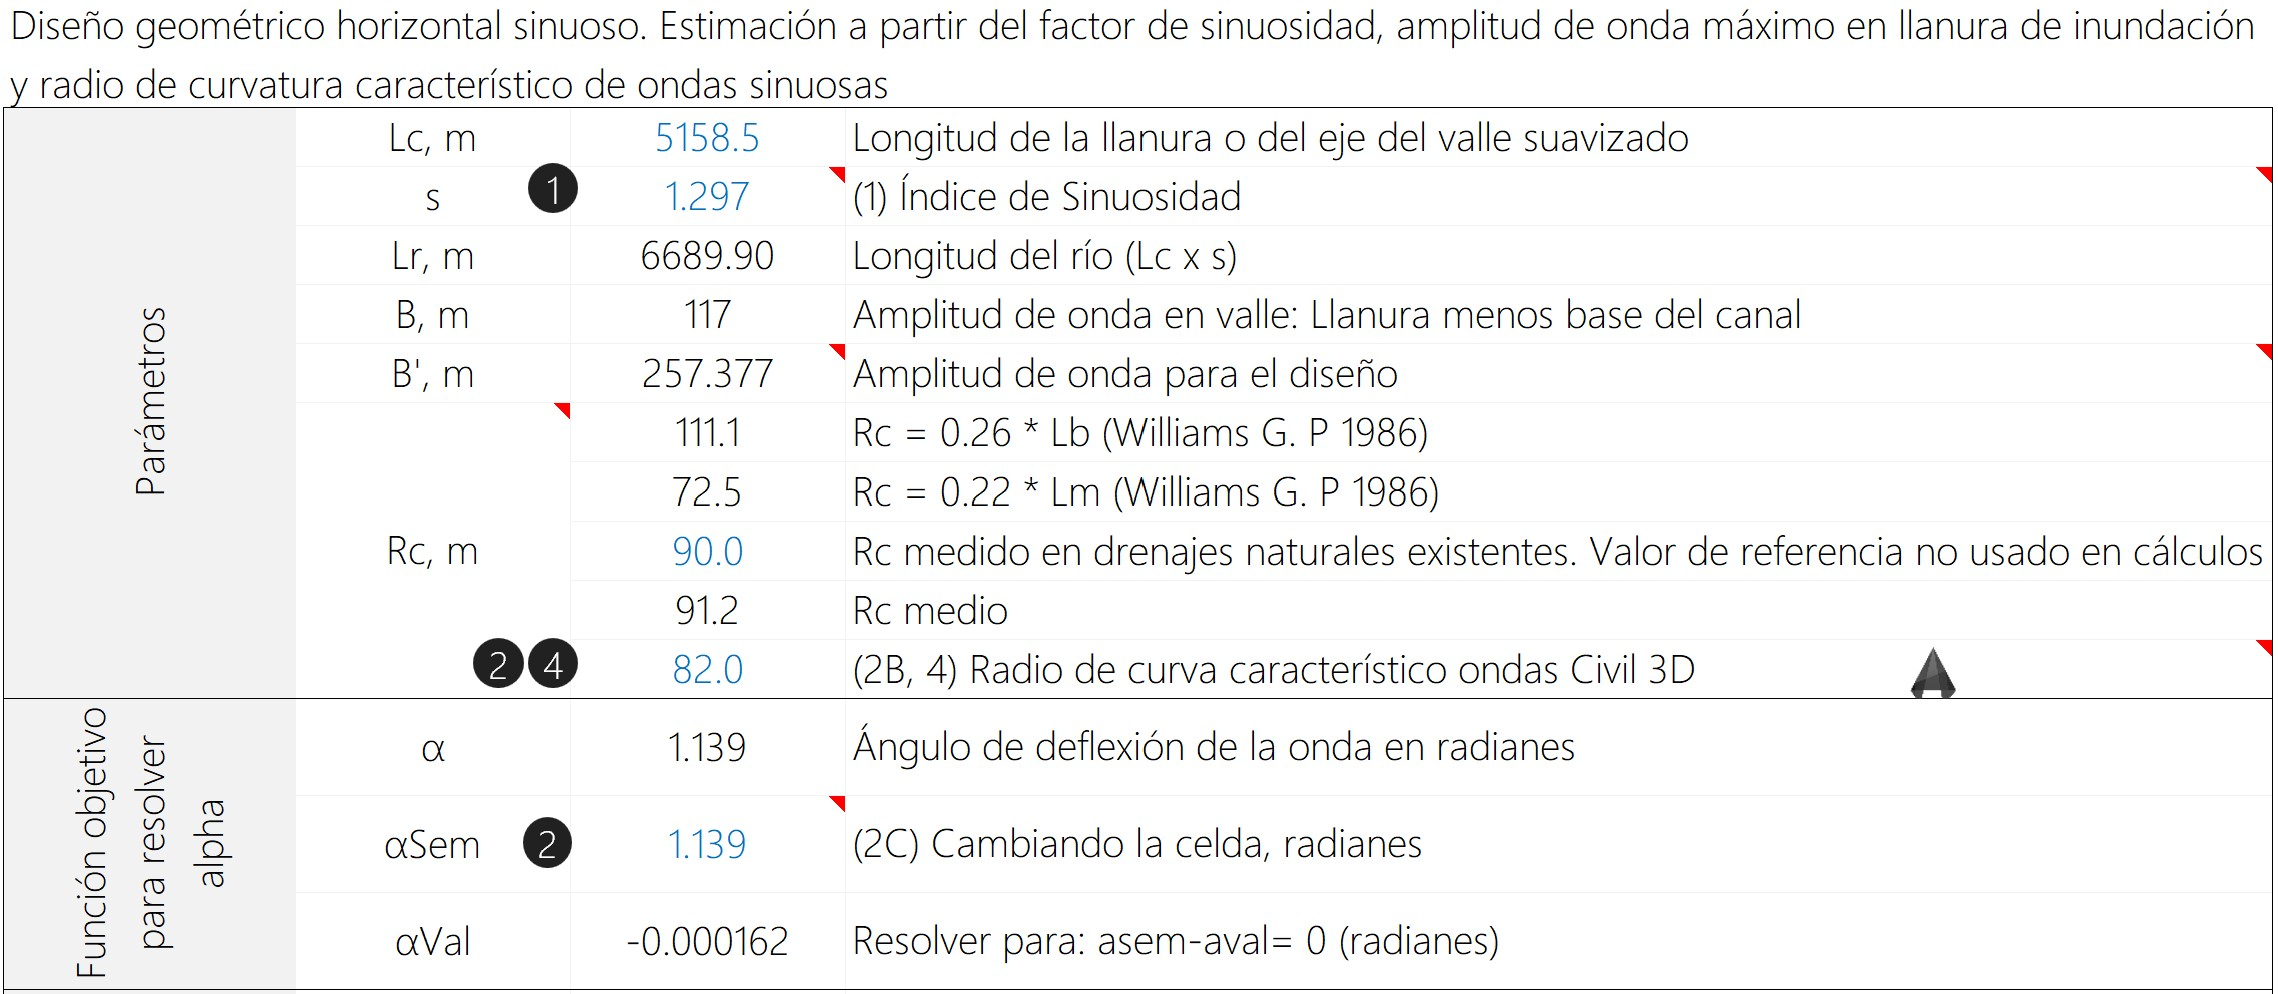
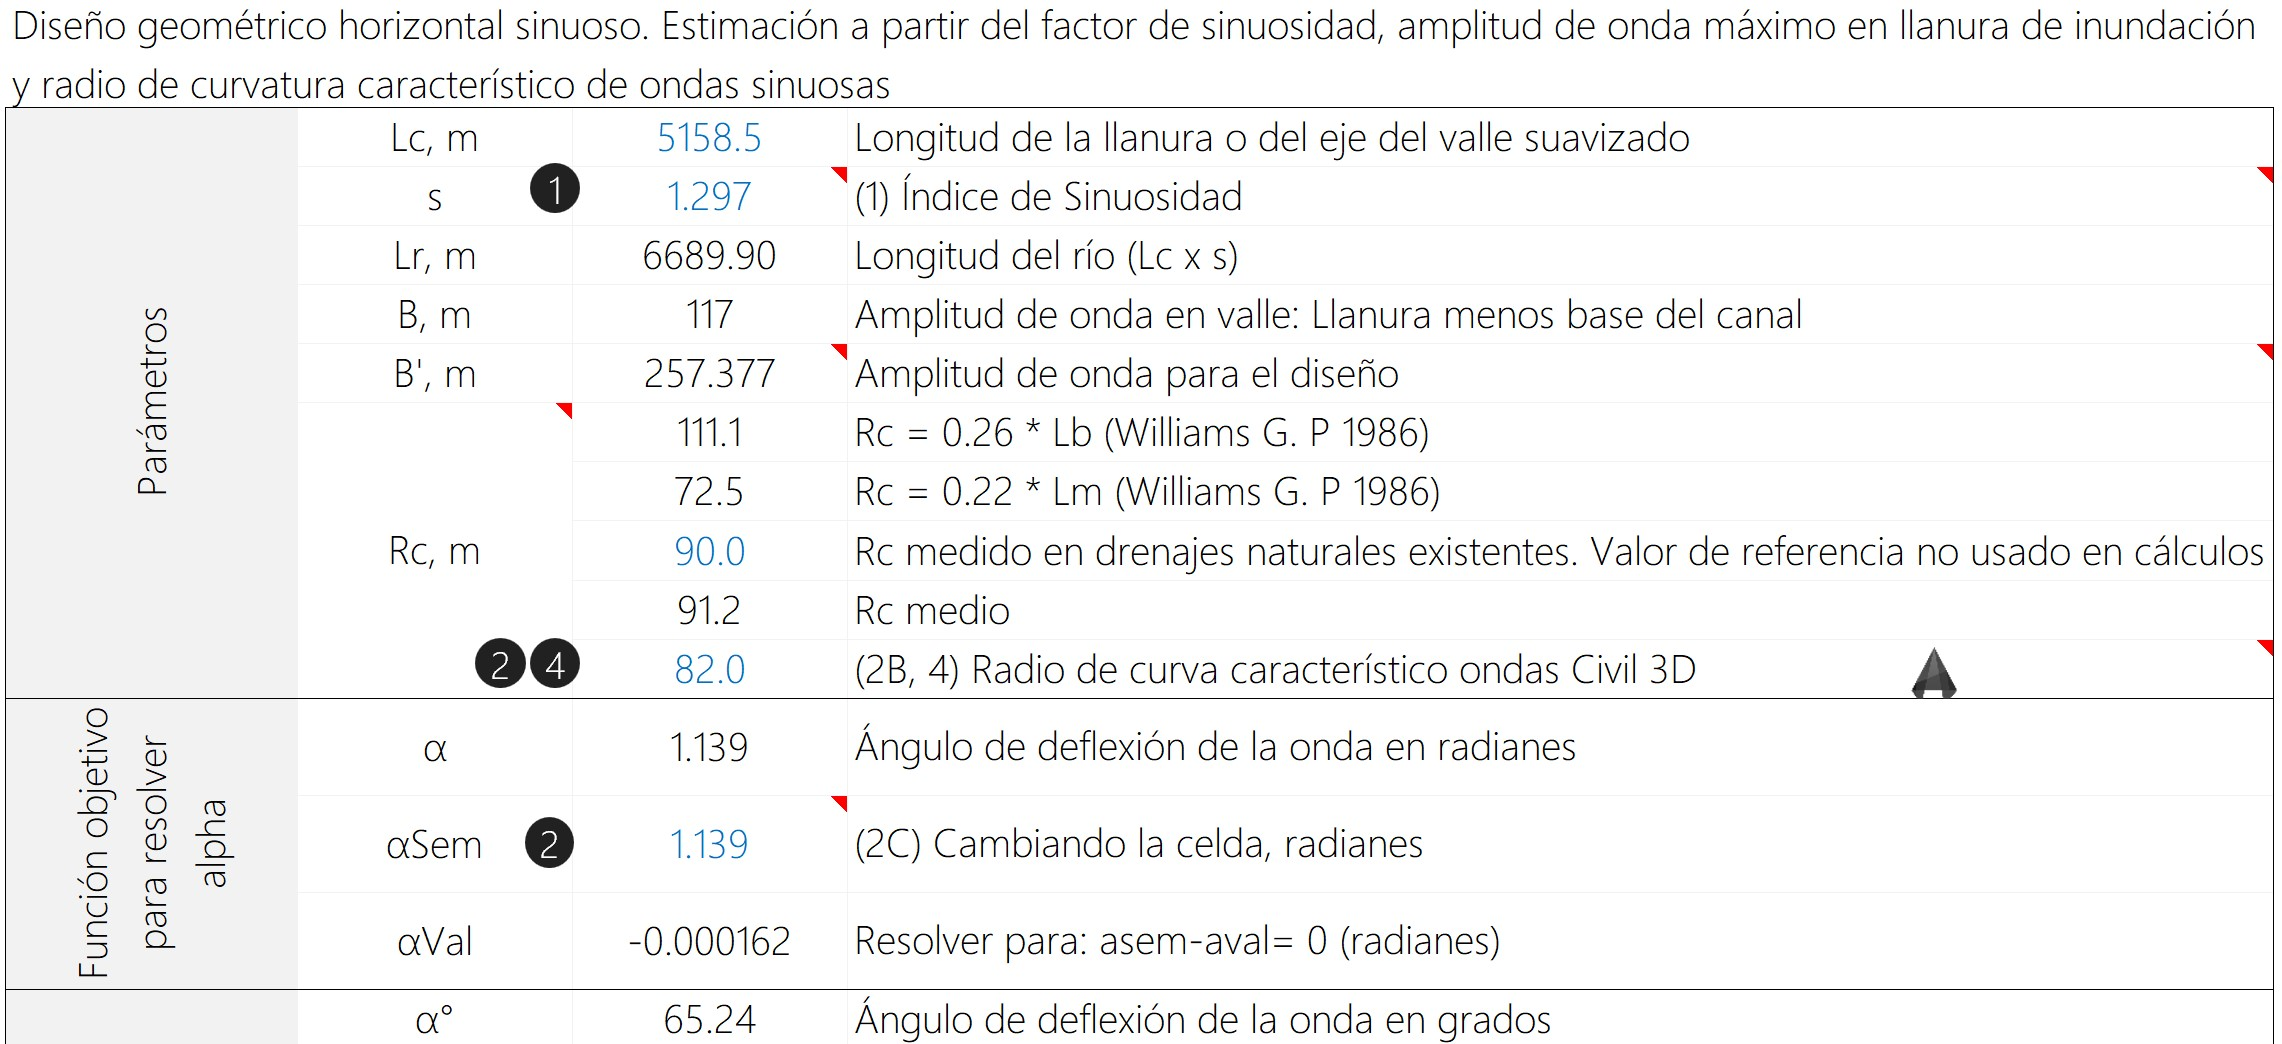
General update.

diff --git a/activity/M01A15/Readme.md b/activity/M01A15/Readme.md
@@ -127,7 +127,7 @@ Parámetros:
 
 <div align="center"><img src="graph/R.HydroTools.DisenoSinuosoCanal.Rc.jpg" alt="R.SIGE" width="100%" border="0" /></div>
 
-5. De clic en el botón `(2A). Estimar α y Rc máximo. Solver`, automáticamente será calculado el valor de `Rc` y el ángulo _α_ de deflexión de la onda en radianes. Obtendrá un valor de 81.9 m.
+5. De clic en el botón `(2A). Estimar α y Rc máximo. Solver`, automáticamente será calculado el valor de `Rc` y el ángulo _α_ de deflexión de la onda en radianes. Obtendrá un Rc de 81.9 m y alpha en 1.139 radianes o 65.24 grados.
 
 Para la solución con Solver, utilizaremos las siguientes restricciones y configuración:
 
